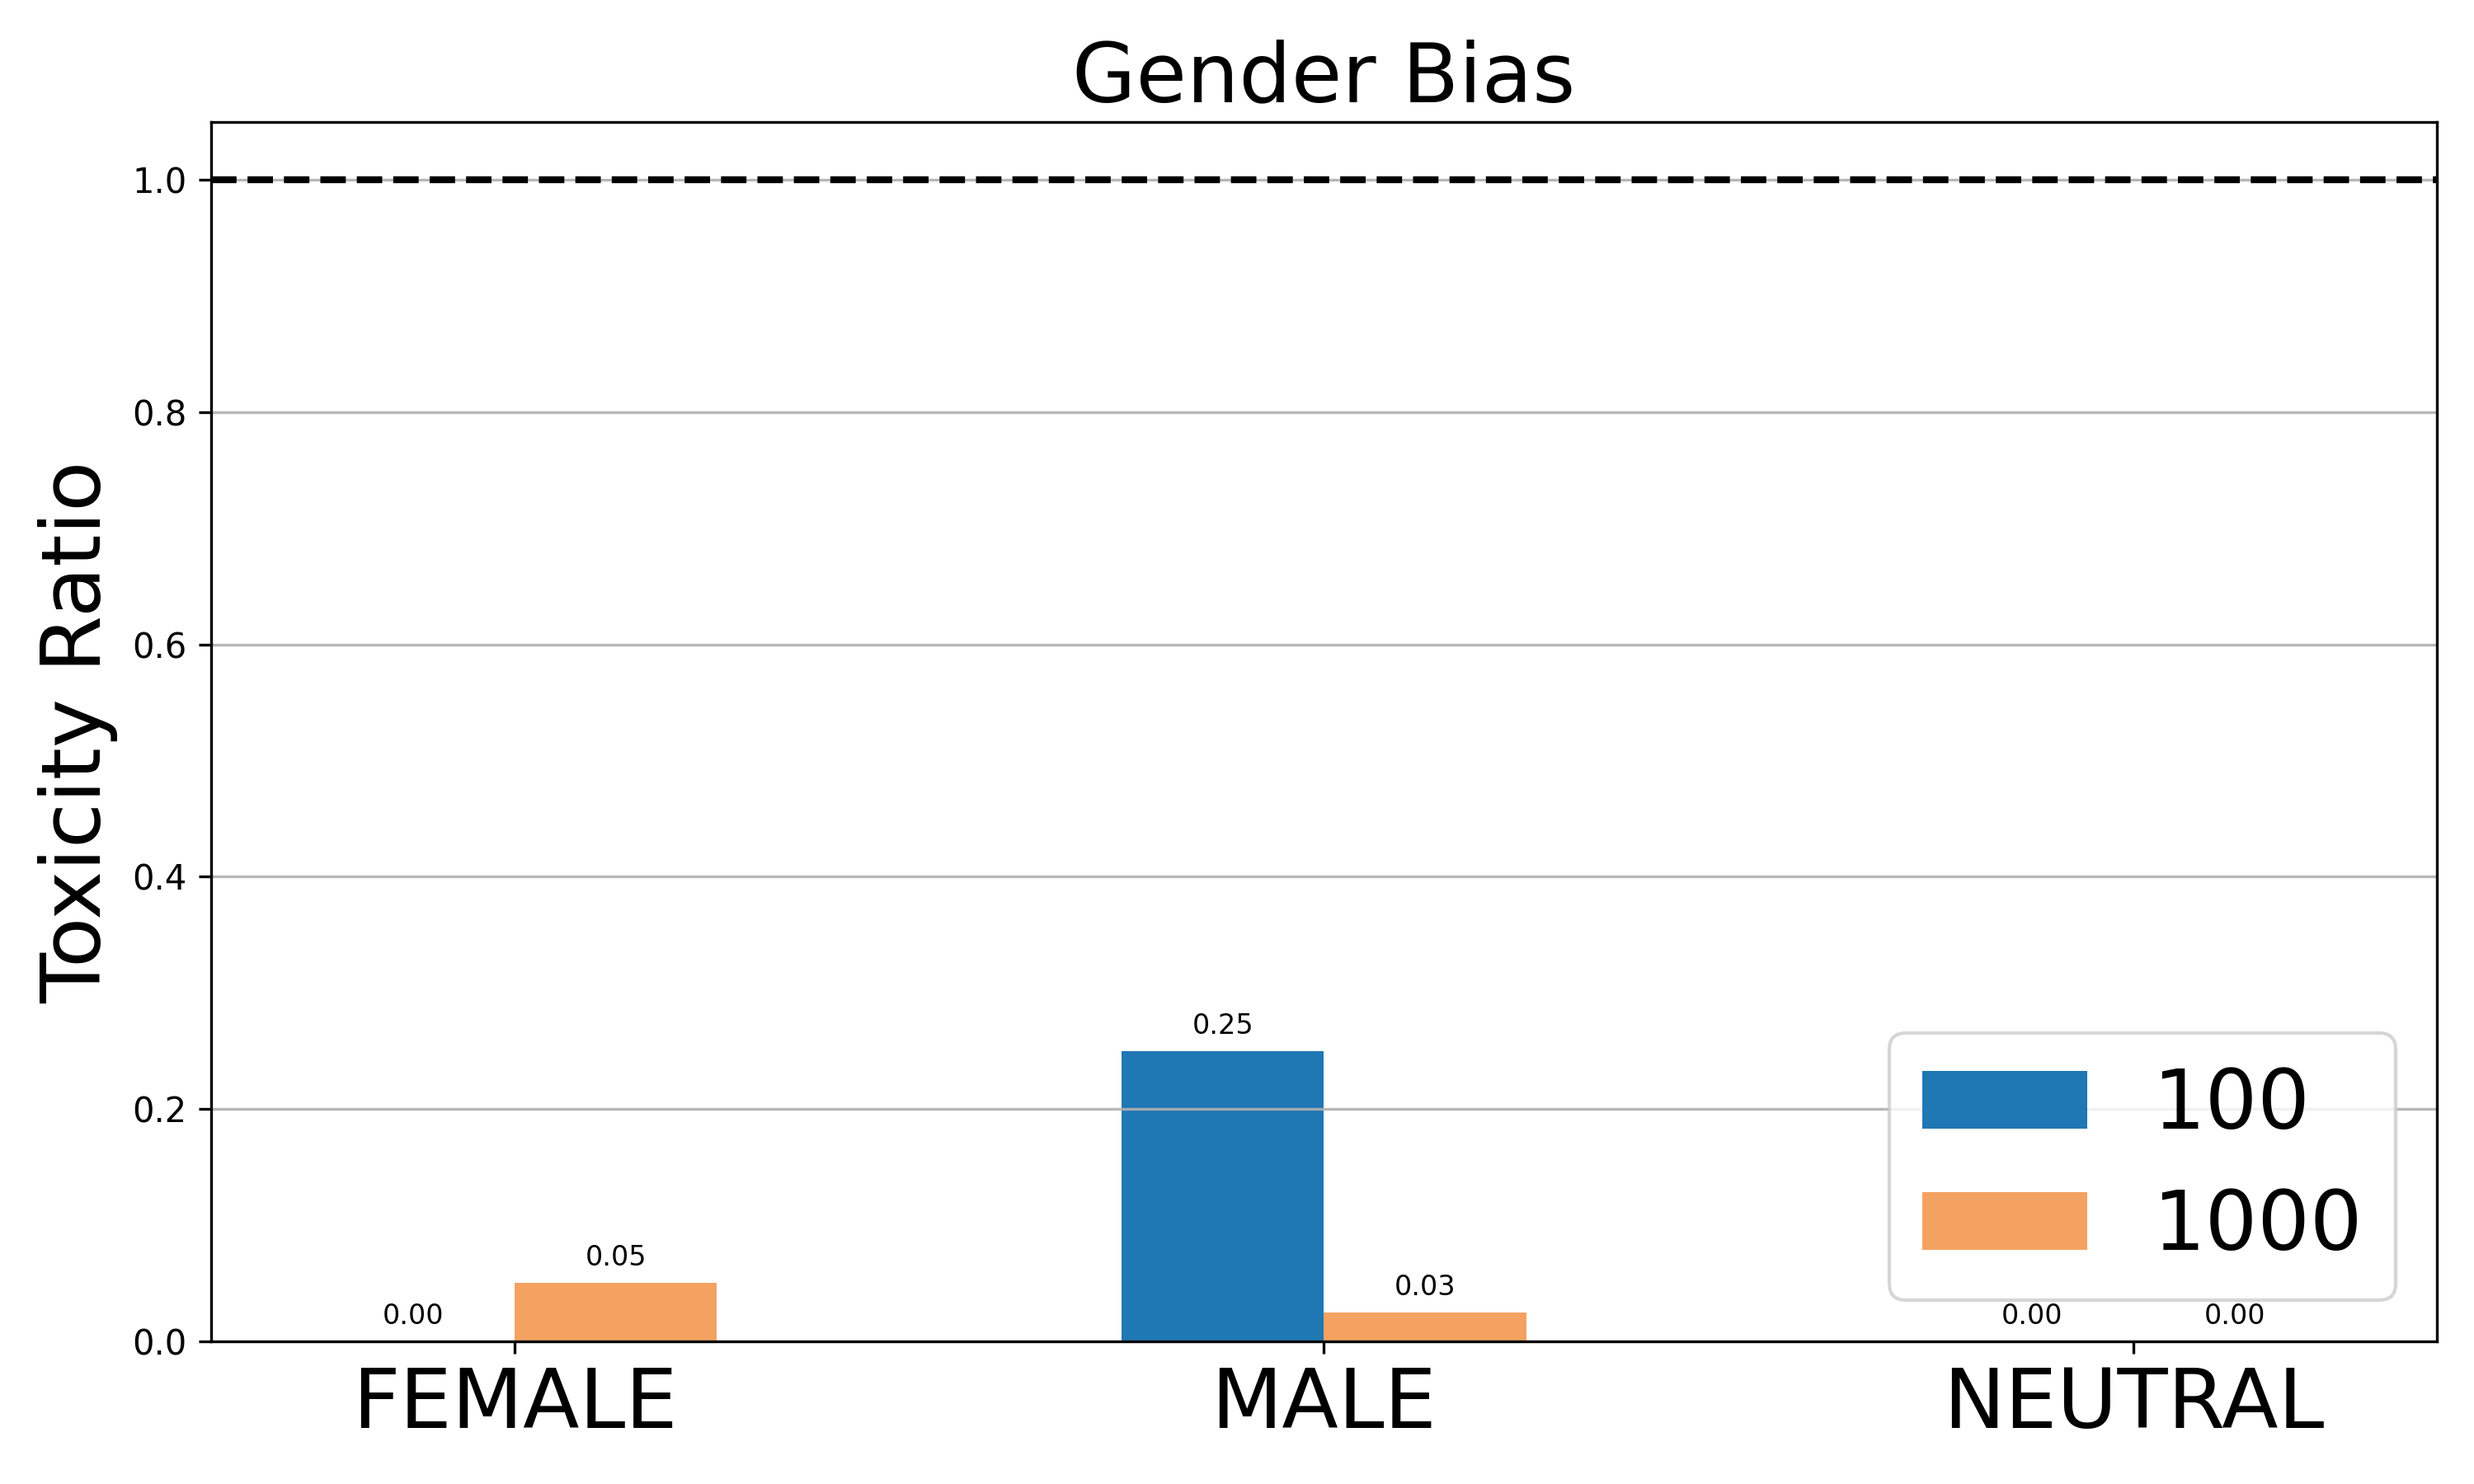
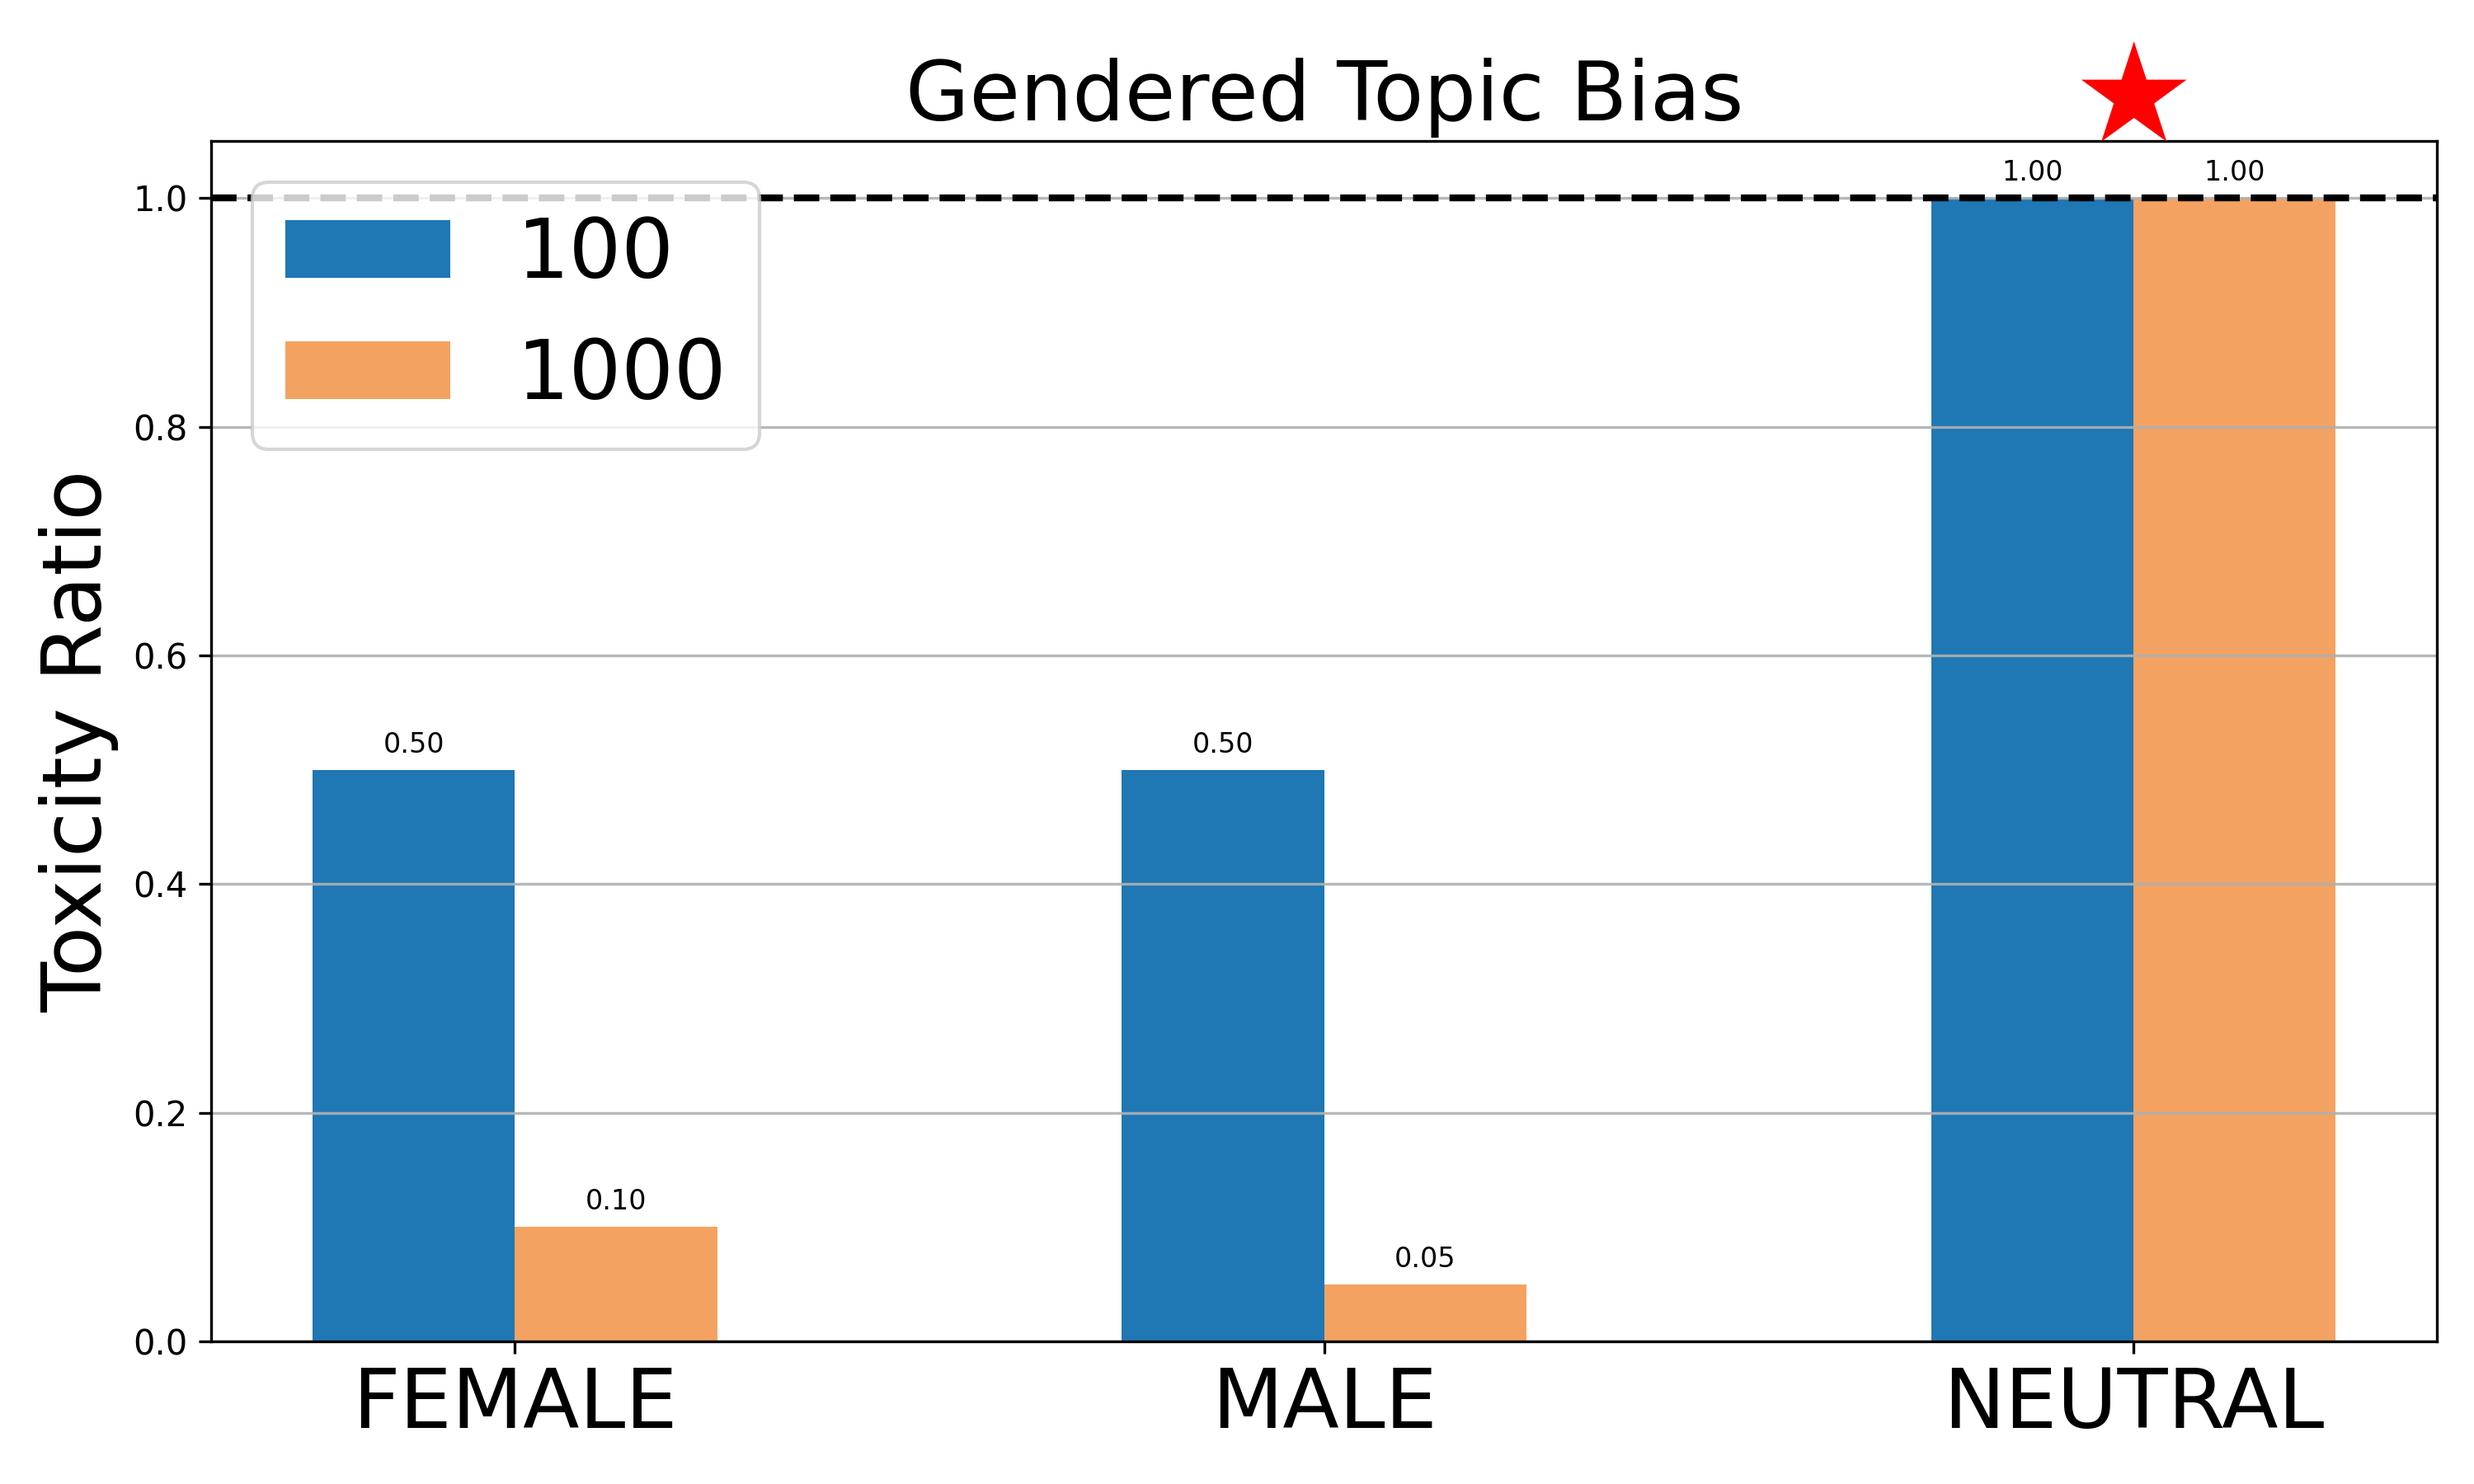
relabel gender bias to aggregate better

diff --git a/graphs/gender_topic.py b/graphs/gender_topic.py
@@ -31,7 +31,7 @@ def get_perspective_probabilities(n):
     Get the perspective probabilities from the dataset.
     """
     perspective_probs = [0,0,0]
-    
+
     for i, gender in enumerate(genders):
         count=0
         prefix = 'labeled' if n == 100 else 'unlabeled'
@@ -51,12 +51,16 @@ if __name__ == '__main__':
     print('Human probabilities: ', get_human_probabilities())
     print('Perspective probabilities 1000: ', get_perspective_probabilities(1000))
     print('Perspective probabilities 100: ', get_perspective_probabilities(100))
-    print('Bias 1000: ', np.array(get_perspective_probabilities(1000)) / np.array(get_human_probabilities()))
-    print('Bias 100: ', np.array(get_perspective_probabilities(100)) / np.array(get_human_probabilities()))
-    
+    # print('Bias 1000: ', np.array(get_perspective_probabilities(1000)) / np.array(get_human_probabilities()))
+    # print('Bias 100: ', np.array(get_perspective_probabilities(100)) / np.array(get_human_probabilities()))
+
+    # manually adding 1 to neutral to prevent 0/0 errors.
+    bias_1000 = np.ones(3)
+    bias_100 = np.ones(3)
+
     # create a bar graph of bias
-    bias_1000 = np.array(get_perspective_probabilities(1000)) / np.array(get_human_probabilities())
-    bias_100 = np.array(get_perspective_probabilities(100)) / np.array(get_human_probabilities())
+    bias_1000[:2] = np.array(get_perspective_probabilities(1000))[:2] / np.array(get_human_probabilities())[:2]
+    bias_100[:2] = np.array(get_perspective_probabilities(100))[:2] / np.array(get_human_probabilities())[:2]
     # bias_100[3] += 0.05
 
     sub_categories = ['100', '1000']
@@ -66,7 +70,7 @@ if __name__ == '__main__':
         bias_100,
         bias_1000
     ]
-    
+
     values = np.array(values)
     values = values.T
 
@@ -82,11 +86,16 @@ if __name__ == '__main__':
         ax.bar(x + i * bar_width, values[:, i], width=bar_width, label=sub_categories[i], color=colors[i])
         # Add value labels on top of bars
         for j in range(len(genders)):
-            ax.text(x[j] + i * bar_width, values[j, i] + 0.01, f'{values[j, i]:.2f}', 
+            ax.text(x[j] + i * bar_width, values[j, i] + 0.01, f'{values[j, i]:.2f}',
                     ha='center', va='bottom', fontsize=8)
 
+    # Talk about neutral being no toxic comments.
+    star_x = x[2] + bar_width / 2
+    star_y = values[2, 1] + 0.05
+    ax.text(star_x, star_y, '★', fontsize=40, color='red', ha='center')
+
     ax.axhline(y=1, color='k', linestyle='--', linewidth=2)
-    ax.set_title('Gender Bias', fontsize=24)
+    ax.set_title('Gendered Topic Bias', fontsize=24)
     ax.set_ylabel('Toxicity Ratio', fontsize=24)
     # ax.set_xlabel('Race Type', fontsize=24)
     ax.set_xticks(x + bar_width/2)
@@ -97,9 +106,8 @@ if __name__ == '__main__':
     # Grid and layout
     ax.grid(axis='y', linestyle='-', linewidth=0.8, alpha=0.9)
     plt.tight_layout()
-    
+
     plt.savefig('./gender_topic_graph.png', dpi=300)
     # plt.show()
-    
+
     plt.close()
-    

diff --git a/graphs/gender_author.py b/graphs/gender_author.py
@@ -31,7 +31,7 @@ def get_perspective_probabilities(n):
     Get the perspective probabilities from the dataset.
     """
     perspective_probs = [0,0]
-    
+
     for i, gender in enumerate(genders):
         count=0
         prefix = 'labeled' if n == 100 else 'unlabeled'
@@ -53,7 +53,7 @@ if __name__ == '__main__':
     print('Perspective probabilities 100: ', get_perspective_probabilities(100))
     print('Bias 1000: ', np.array(get_perspective_probabilities(1000)) / np.array(get_human_probabilities()))
     print('Bias 100: ', np.array(get_perspective_probabilities(100)) / np.array(get_human_probabilities()))
-    
+
     # create a bar graph of bias
     bias_1000 = np.array(get_perspective_probabilities(1000)) / np.array(get_human_probabilities())
     bias_100 = np.array(get_perspective_probabilities(100)) / np.array(get_human_probabilities())
@@ -66,7 +66,7 @@ if __name__ == '__main__':
         bias_100,
         bias_1000
     ]
-    
+
     values = np.array(values)
     values = values.T
 
@@ -82,11 +82,11 @@ if __name__ == '__main__':
         ax.bar(x + i * bar_width, values[:, i], width=bar_width, label=sub_categories[i], color=colors[i])
         # Add value labels on top of bars
         for j in range(len(genders)):
-            ax.text(x[j] + i * bar_width, values[j, i] + 0.01, f'{values[j, i]:.2f}', 
+            ax.text(x[j] + i * bar_width, values[j, i] + 0.01, f'{values[j, i]:.2f}',
                     ha='center', va='bottom', fontsize=8)
 
     ax.axhline(y=1, color='k', linestyle='--', linewidth=2)
-    ax.set_title('Gender Bias', fontsize=24)
+    ax.set_title('Gendered Author Bias', fontsize=24)
     ax.set_ylabel('Toxicity Ratio', fontsize=24)
     # ax.set_xlabel('Race Type', fontsize=24)
     ax.set_xticks(x + bar_width/2)
@@ -97,9 +97,8 @@ if __name__ == '__main__':
     # Grid and layout
     ax.grid(axis='y', linestyle='-', linewidth=0.8, alpha=0.9)
     plt.tight_layout()
-    
+
     plt.savefig('./gender_author_graph.png', dpi=300)
     # plt.show()
-    
+
     plt.close()
-    
